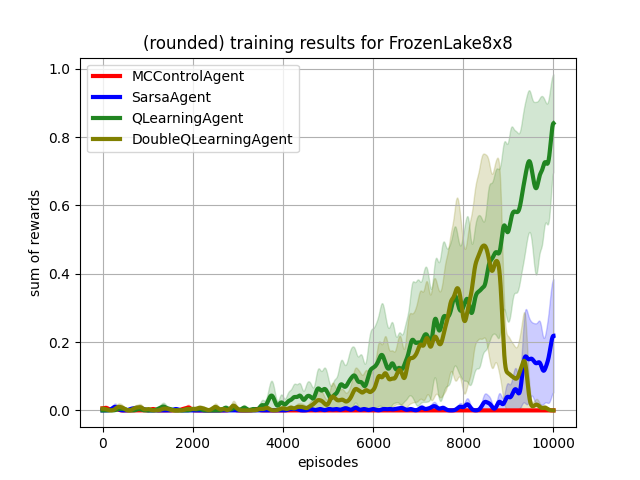
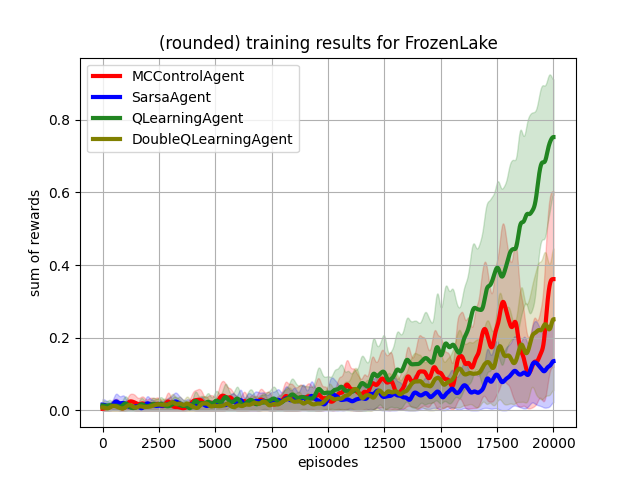
MC agent fix

diff --git a/agent_methods/mc_control_agent.py b/agent_methods/mc_control_agent.py
@@ -2,18 +2,17 @@ import numpy as np
 from agent_methods import AbstractAgent
 
 
-# Off-Policy Monte Carlo-Control
 class MCControlAgent(AbstractAgent):
-    def __init__(self, env, epsilon_start=1.0, epsilon_min=0.0, gamma=0.99, name='MCControlAgent'):
+    def __init__(self, env, epsilon_start=1.0, epsilon_min=0.0, gamma=0.99, alpha=0.01, name='MCControlAgent'):
         super().__init__(env, epsilon_start=epsilon_start, epsilon_min=epsilon_min, name=name)
         self.gamma = gamma
+        self.alpha = alpha
 
         # only discrete environments possible
         self.state_space = self.env.observation_space.n
         self.action_space = self.env.action_space.n
 
         self.q_table = np.zeros((self.state_space, self.action_space))
-        self.count_table = np.zeros((self.state_space, self.action_space))
 
         self.states = []
         self.actions = []
@@ -22,7 +21,6 @@ class MCControlAgent(AbstractAgent):
     def reset(self):
         super().reset()
         self.q_table = np.zeros((self.state_space, self.action_space))
-        self.count_table = np.zeros((self.state_space, self.action_space))
 
         self.states = []
         self.actions = []
@@ -45,16 +43,10 @@ class MCControlAgent(AbstractAgent):
         super().episode_done(epsilon_reduction)
 
         g = 0
-        w = 1
-        for t in range(len(self.actions)):
+        for t in reversed(range(len(self.actions))):
             s_t, a_t, r_t = self.states[t], self.actions[t], self.rewards[t]
-
             g = self.gamma * g + r_t
-            self.count_table[s_t, a_t] += w
-            self.q_table[s_t, a_t] += (w / self.count_table[s_t, a_t]) * (g - self.q_table[s_t, a_t])
-            if a_t != np.argmax(self.q_table[s_t]):
-                break
-            w *= 1 / (1 - self.epsilon)  # TODO: 1-self.epsilon is not exactly the probability of policy choosing a_t
+            self.q_table[s_t, a_t] = self.q_table[s_t, a_t] + self.alpha * (g - self.q_table[s_t, a_t])
 
         self.states = []
         self.actions = []

diff --git a/examples/comparison_table_based_methods.py b/examples/comparison_table_based_methods.py
@@ -3,14 +3,14 @@ from agent_methods import MCControlAgent, SarsaAgent, QLearningAgent, DoubleQLea
 from train import train_agents
 from utils import visualize_training_results_for_agents
 
-env = FrozenLakeEnv(map_name='8x8')
+env = FrozenLakeEnv()
 
-mc_agent = MCControlAgent(env)
-sarsa_agent = SarsaAgent(env, alpha=0.1)
-q_agent = QLearningAgent(env, alpha=0.1)
-double_q_agent = DoubleQLearningAgent(env, alpha=0.15)
+mc_agent = MCControlAgent(env, alpha=0.01)
+sarsa_agent = SarsaAgent(env, alpha=0.01)
+q_agent = QLearningAgent(env, alpha=0.01)
+double_q_agent = DoubleQLearningAgent(env, alpha=0.01)
 
-stats = train_agents(env, [mc_agent, sarsa_agent, q_agent, double_q_agent], training_steps=10000, repetitions=2)
+stats = train_agents(env, [mc_agent, sarsa_agent, q_agent, double_q_agent], training_steps=20000, repetitions=2)
 visualize_training_results_for_agents(stats, save_fig='table_based_models_frozen_lake.png',
-                                      environment_name='FrozenLake8x8')
+                                      environment_name='FrozenLake')
 
